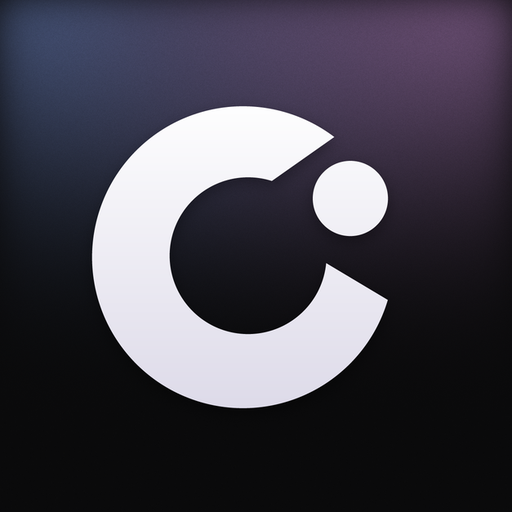
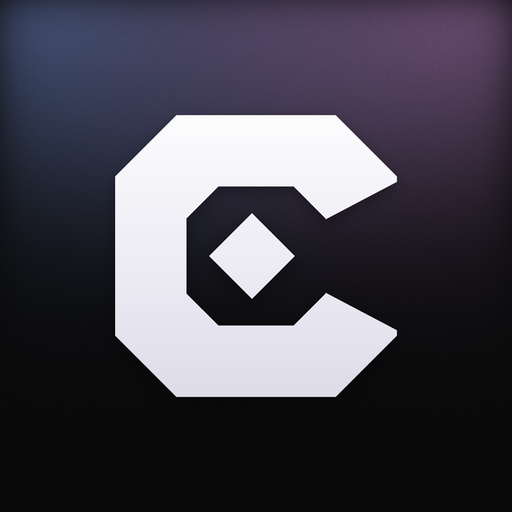
New mark: a faceted C with a diamond control point inside it

diff --git a/src/components/BrandMark.tsx b/src/components/BrandMark.tsx
@@ -4,10 +4,10 @@ import { cn } from './ui';
 /**
  * BrandMark — the Control Point logo slot.
  *
- * The logo is `public/logo.png` (Control Scout's v8 icon family: a round "C"
- * with a control point in its opening, soft white on the near-black tile with
- * the slate-to-mauve wash; drawn by scripts/make-icons.py). If it fails to
- * load, the same mark renders inline as SVG.
+ * The logo is `public/logo.png` (Control Scout's v8 icon family: a faceted,
+ * sharp-cornered "C" with the control point, a diamond, inside it; soft white on
+ * the near-black tile with the slate-to-mauve wash; drawn by scripts/make-icons.py).
+ * If it fails to load, the same mark renders inline as SVG.
  *
  * Includes the mini BETA badge next to the wordmark (intentionally tiny).
  */
@@ -28,9 +28,12 @@ export function BetaBadge({ className }: { className?: string }) {
   );
 }
 
-/** The mark alone (the C and its control point) filling its box, in the icon's soft-white ink. Path from scripts/make-icons.py. */
+/** The mark alone (the faceted C and its diamond point) filling its box, in the icon's soft-white ink.
+ *  Polygons from scripts/make-icons.py (mark_polys), scaled to the 100-unit box: the C is the outer
+ *  octagon with the inner octagon and the right-hand wedge masked out. */
 function MarkSvg() {
-  const ink = `cp-ink-${useId().replace(/:/g, '')}`;
+  const id = useId().replace(/:/g, '');
+  const ink = `cp-ink-${id}`, cut = `cp-cut-${id}`;
   return (
     <svg viewBox="0 0 100 100" className="w-full h-full" aria-hidden="true" focusable="false">
       <defs>
@@ -38,10 +41,15 @@ function MarkSvg() {
           <stop offset="0" stopColor="#ffffff" />
           <stop offset="1" stopColor="#dcd9e8" />
         </linearGradient>
+        <mask id={cut} maskUnits="userSpaceOnUse" x="0" y="0" width="100" height="100">
+          <polygon points="34.45,22.49 65.55,22.49 77.51,34.45 77.51,65.55 65.55,77.51 34.45,77.51 22.49,65.55 22.49,34.45" fill="#fff" />
+          <polygon points="42.66,36.44 57.34,36.44 63.56,42.66 63.56,57.34 57.34,63.56 42.66,63.56 36.44,57.34 36.44,42.66" fill="#000" />
+          <polygon points="50,50 100,23.68 100,76.32" fill="#000" />
+        </mask>
       </defs>
       <g fill={`url(#${ink})`}>
-        <path d="M65.29 26.77A29.47 29.47 0 1 0 75.74 58.57L63.69 51.38A15.3 15.3 0 1 1 53.09 35.35Z" />
-        <circle cx="68.42" cy="38.76" r="7.34" />
+        <rect width="100" height="100" mask={`url(#${cut})`} />
+        <polygon points="49.2,41.63 57.58,50 49.2,58.37 40.83,50" />
       </g>
     </svg>
   );
@@ -68,7 +76,7 @@ function LogoImage({ className, decorative = false }: { className?: string; deco
   }
   return (
     <img
-      src="/logo.png?v=5"
+      src="/logo.png?v=6"
       alt={decorative ? '' : 'Control Point logo'}
       onError={() => setMissing(true)}
       className={cn('object-contain flex-shrink-0', className)}

diff --git a/index.html b/index.html
@@ -5,7 +5,7 @@
     <meta name="viewport" content="width=device-width, initial-scale=1.0" />
     <title>Control Point — AI-powered mission control for your robotics team</title>
     <meta name="description" content="Control Point is AI-powered mission control for your robotics team: roster, attendance, tasks, calendar, budget, and team chat — one fast, focused workspace that keeps your whole season on track." />
-    <link rel="icon" type="image/png" href="/favicon.png?v=6">
+    <link rel="icon" type="image/png" href="/favicon.png?v=7">
     <!-- Link embeds: Discord, iMessage, Twitter/X, etc. -->
     <meta property="og:type" content="website" />
     <meta property="og:site_name" content="Control Point" />
@@ -13,18 +13,18 @@
     <meta property="og:description" content="Roster, attendance, tasks, calendar, budget, and team chat — one fast, focused workspace that keeps your whole season on track." />
     <meta property="og:url" content="https://tryctrlpoint.org/" />
     <link rel="canonical" href="https://tryctrlpoint.org/" />
-    <meta property="og:image" content="https://tryctrlpoint.org/og-image.jpg?v=4" />
+    <meta property="og:image" content="https://tryctrlpoint.org/og-image.jpg?v=5" />
     <meta property="og:image:width" content="1200" />
     <meta property="og:image:height" content="630" />
     <meta property="og:image:alt" content="Control Point — AI-powered mission control for your robotics team" />
     <meta name="twitter:card" content="summary_large_image" />
     <meta name="twitter:title" content="Control Point — AI-powered mission control for your robotics team" />
     <meta name="twitter:description" content="Roster, attendance, tasks, calendar, budget, and team chat — one fast, focused workspace that keeps your whole season on track." />
-    <meta name="twitter:image" content="https://tryctrlpoint.org/og-image.jpg?v=4" />
+    <meta name="twitter:image" content="https://tryctrlpoint.org/og-image.jpg?v=5" />
     <meta name="theme-color" content="#0a0a0b" />
     <!-- PWA: installable from the browser, no app store needed -->
     <link rel="manifest" href="/manifest.webmanifest?v=6" />
-    <link rel="apple-touch-icon" sizes="180x180" href="/apple-touch-icon.png?v=6" />
+    <link rel="apple-touch-icon" sizes="180x180" href="/apple-touch-icon.png?v=7" />
     <meta name="mobile-web-app-capable" content="yes" />
     <meta name="apple-mobile-web-app-capable" content="yes" />
     <meta name="apple-mobile-web-app-status-bar-style" content="black-translucent" />

diff --git a/src/components/__tests__/brandMark.test.tsx b/src/components/__tests__/brandMark.test.tsx
@@ -1,0 +1,36 @@
+// The logo is /logo.png; if it fails to load, BrandLogo draws the same mark inline. Both come from
+// scripts/make-icons.py: the faceted C (outer octagon, inner octagon and right-hand wedge masked out)
+// with the diamond control point inside it.
+import { describe, it, expect, afterEach } from 'vitest';
+import { render, screen, fireEvent, cleanup } from '@testing-library/react';
+import { BrandLogo } from '../BrandMark';
+
+afterEach(cleanup);
+
+describe('BrandLogo', () => {
+  it('serves the current logo image', () => {
+    render(<BrandLogo />);
+    expect(screen.getByRole('img', { name: 'Control Point logo' }).getAttribute('src')).toBe('/logo.png?v=6');
+  });
+
+  it('falls back to the faceted C with a diamond point when the image fails', () => {
+    render(<BrandLogo />);
+    fireEvent.error(screen.getByRole('img', { name: 'Control Point logo' }));
+    const box = screen.getByRole('img', { name: 'Control Point logo' });
+    const svg = box.querySelector('svg')!;
+    const mask = svg.querySelector('mask')!;
+    expect(mask.querySelectorAll('polygon')).toHaveLength(3); // outer octagon, inner octagon, mouth
+    expect(mask.querySelector('polygon')!.getAttribute('points')!.trim().split(/\s+/)).toHaveLength(8);
+    // The diamond sits inside the C's bowl (the inner octagon spans 36.44..63.56).
+    const diamond = svg.querySelector(':scope > g > polygon')!.getAttribute('points')!.split(/\s+/).map((p) => p.split(',').map(Number));
+    expect(diamond).toHaveLength(4);
+    for (const [x, y] of diamond) {
+      expect(x).toBeGreaterThan(36.44);
+      expect(x).toBeLessThan(63.56);
+      expect(y).toBeGreaterThan(36.44);
+      expect(y).toBeLessThan(63.56);
+    }
+    // No round shapes left from the old mark.
+    expect(svg.querySelector('circle, path')).toBeNull();
+  });
+});

diff --git a/server/predict/how-it-works.html b/server/predict/how-it-works.html
@@ -7,7 +7,7 @@
 <meta name="description" content="How Control Point Predict rates FTC robots, predicts matches, simulates whole events and estimates advancement odds, with the real accuracy numbers.">
 <meta property="og:title" content="How Control Point Predict Works">
 <meta property="og:description" content="Robot ratings, match odds, event simulation and how accurate it all is, explained with real FTC data.">
-<meta property="og:image" content="https://tryctrlpoint.org/og-image.jpg?v=4">
+<meta property="og:image" content="https://tryctrlpoint.org/og-image.jpg?v=5">
 <meta property="og:image:width" content="1200">
 <meta property="og:image:height" content="630">
 <meta property="og:url" content="https://tryctrlpoint.org/predict/how-it-works">
@@ -16,11 +16,11 @@
 <meta name="twitter:card" content="summary_large_image">
 <meta name="twitter:title" content="How Control Point Predict Works">
 <meta name="twitter:description" content="Robot ratings, match odds, event simulation and how accurate it all is, explained with real FTC data.">
-<meta name="twitter:image" content="https://tryctrlpoint.org/og-image.jpg?v=4">
+<meta name="twitter:image" content="https://tryctrlpoint.org/og-image.jpg?v=5">
 <meta property="og:type" content="article">
 <meta name="theme-color" content="#0f1116">
-<link rel="icon" type="image/png" href="/favicon.png?v=6">
-<link rel="apple-touch-icon" sizes="180x180" href="/apple-touch-icon.png?v=6">
+<link rel="icon" type="image/png" href="/favicon.png?v=7">
+<link rel="apple-touch-icon" sizes="180x180" href="/apple-touch-icon.png?v=7">
 <link rel="manifest" href="/manifest.webmanifest?v=6">
 <link rel="preconnect" href="https://fonts.googleapis.com">
 <link rel="preconnect" href="https://fonts.gstatic.com" crossorigin>

diff --git a/src/modern/ModernShell.tsx b/src/modern/ModernShell.tsx
@@ -601,7 +601,7 @@ function WorkspaceSwitcher({ collapsed, teams, activeTeam, activeTeamName, onSwi
             collapsed ? 'size-10 justify-center' : 'h-10 flex-1 px-2',
           )}
         >
-          <img src="/logo.png?v=5" alt="" className="size-6 shrink-0 rounded-md" />
+          <img src="/logo.png?v=6" alt="" className="size-6 shrink-0 rounded-md" />
           {!collapsed && (
             <>
               <span className="min-w-0 flex-1 truncate text-sm font-semibold text-text-base">{activeTeamName || 'Control Point'}</span>

diff --git a/scripts/make-icons.py b/scripts/make-icons.py
@@ -3,14 +3,13 @@
 Needs Pillow and numpy. The output is deterministic (the grain uses a seeded RNG),
 so a re-run with no code change leaves every file byte-identical.
 
-The icon is a sibling of Control Scout's v8 icon (control-scout scripts/brand-icon.mjs):
+The tile is a sibling of Control Scout's v8 icon (control-scout scripts/brand-icon.mjs):
 the same near-black tile with the same wash of three glows along the top edge, the
-same fine grain, and the same heavy round "C" in soft white with a soft shadow. Only
-the glyph in the C's opening differs: Scout has a compass needle, Control Point has
-a control point, a solid round node.
+same fine grain, and the mark in the same soft white with a soft shadow. The mark is
+Control Point's own: a faceted C, all sharp corners, with the control point (a diamond)
+inside it, so it does not read as Scout's round C with its needle.
 
-Geometry is in units of the tile's width, measured from Scout's mark master
-(brand/favicon-master-white.png, 1254 px) so the two C's match.
+Geometry is in units of 1/1254 of the tile's width (the master's size).
 
 Writes:
   favicon.png            64   full-bleed tile (browser tab)
@@ -40,56 +39,42 @@ GRAIN = 0.07
 MASTER = 1254  # the master's size, as Scout's, so the grain has the same scale
 SEED = 8
 
-# The C (Scout's): an outer circle, an inner circle a little right of it, and a wedge cut
-# out of the right side between two straight edges. Units: fraction of the tile.
+# The mark: a faceted C (an octagon with a stroke cut out, opened on the right by a wedge
+# from the centre) with the control point, a diamond, in the middle. Sharp corners
+# throughout, so it reads apart from Scout's round C. Units: 1/1254 of the tile.
 U = 1 / 1254
-C_OUTER = (595.2 * U, 630.0 * U, 369.6 * U)  # cx, cy, r
-C_INNER = (607.6 * U, 626.2 * U, 191.9 * U)
-CUT_TOP = ((841 * U, 320 * U), -0.704)  # a point on the edge, slope dy/dx
-CUT_BOTTOM = ((825 * U, 660 * U), 0.597)
-# The control point: a solid node in the opening, where Scout's needle sits.
-NODE = (858 * U, 486 * U, 92 * U)  # cx, cy, r
-
-GLYPH = "node"
+CX = CY = 627
+OUTER = (345, 150)  # half-size, corner chamfer
+INNER = (170, 78)
+MOUTH = 330  # the wedge's half-height at the tile's right edge
+POINT = (617, 627, 105)  # diamond centre x, y, half-diagonal
 
 
-def mark_mask(size: int, glyph: str = GLYPH, scale: float = 1.0, ss: int = 4) -> np.ndarray:
+def octagon(h: float, k: float) -> list[tuple[float, float]]:
+    c = CX
+    return [(c - h + k, c - h), (c + h - k, c - h), (c + h, c - h + k), (c + h, c + h - k),
+            (c + h - k, c + h), (c - h + k, c + h), (c - h, c + h - k), (c - h, c - h + k)]
+
+
+def mark_polys() -> list[tuple[list[tuple[float, float]], int]]:
+    """The mark as polygons in tile units (0..1254), painted in order: 255 adds, 0 cuts."""
+    px, py, pr = POINT
+    return [
+        (octagon(*OUTER), 255),
+        (octagon(*INNER), 0),
+        ([(CX, CY), (1254, CY - MOUTH), (1254, CY + MOUTH)], 0),
+        ([(px, py - pr), (px + pr, py), (px, py + pr), (px - pr, py)], 255),
+    ]
+
+
+def mark_mask(size: int, scale: float = 1.0, ss: int = 4) -> np.ndarray:
     """The mark's coverage (0..1) on a size x size tile, drawn at ss x and box-filtered down."""
     S = size * ss
     im = Image.new("L", (S, S), 0)
     d = ImageDraw.Draw(im)
     o = (1 - scale) / 2
-
-    def p(x: float, y: float) -> tuple[float, float]:
-        return ((o + x * scale) * S, (o + y * scale) * S)
-
-    def disc(cx: float, cy: float, r: float, fill: int) -> None:
-        (x0, y0), (x1, y1) = p(cx - r, cy - r), p(cx + r, cy + r)
-        d.ellipse([x0, y0, x1, y1], fill=fill)
-
-    disc(*C_OUTER, 255)
-    disc(*C_INNER, 0)
-    # The opening: everything below the top edge and above the bottom edge, right of where they meet.
-    (tx, ty), ts = CUT_TOP
-    (bx, by), bs = CUT_BOTTOM
-    ax = (by - ty + ts * tx - bs * bx) / (ts - bs)
-    ay = ty + ts * (ax - tx)
-    far = 3.0
-    wedge = [p(ax, ay), p(ax + far, ay + ts * far), p(ax + far, ay + bs * far)]
-    d.polygon(wedge, fill=0)
-    if glyph == "node":
-        disc(*NODE, 255)
-    elif glyph == "target":
-        cx, cy, _ = NODE
-        disc(cx, cy, 104 * U, 255)
-        disc(cx, cy, 66 * U, 0)
-        disc(cx, cy, 34 * U, 255)
-    elif glyph == "centre":
-        disc(C_INNER[0], C_INNER[1], 82 * U, 255)
-    elif glyph == "needle":  # Scout's own glyph, for checking the C against Scout's icon
-        d.polygon([p(737 * U, 465 * U), p(1048 * U, 227 * U), p(880 * U, 612 * U)], fill=255)
-    elif glyph != "none":
-        raise ValueError(glyph)
+    for pts, fill in mark_polys():
+        d.polygon([((o + x * U * scale) * S, (o + y * U * scale) * S) for x, y in pts], fill=fill)
     im = im.resize((size, size), Image.BOX)
     return np.asarray(im, dtype=np.float32) / 255
 
@@ -119,7 +104,7 @@ def over(dst: np.ndarray, rgb: np.ndarray, alpha: np.ndarray) -> np.ndarray:
     return dst * (1 - a) + rgb * a
 
 
-def tile(size: int, glyph: str = GLYPH, scale: float = 1.0) -> Image.Image:
+def tile(size: int, scale: float = 1.0) -> Image.Image:
     """The full icon at `size`, drawn as Scout draws its master."""
     N = size
     yy, xx = np.mgrid[0:N, 0:N].astype(np.float32) + 0.5
@@ -147,7 +132,7 @@ def tile(size: int, glyph: str = GLYPH, scale: float = 1.0) -> Image.Image:
     img = img * (1 - GRAIN) + ov * GRAIN
     # The mark: soft white (white at 18% to a faint lavender grey at 82%), with a soft
     # shadow (black 35%, blur 3% of the size, 1% down).
-    m = mark_mask(N, glyph, scale)
+    m = mark_mask(N, scale)
     shadow = blur(m, N * 0.03 / 2)
     dy = int(round(N * 0.01))
     shadow = np.vstack([np.zeros((dy, N), np.float32), shadow[: N - dy]]) * 0.35

diff --git a/public/BRAND.md b/public/BRAND.md
@@ -1,9 +1,9 @@
 # Brand logo
 
-The logo is a heavy round "C" with a control point (a solid round node) in its
-opening, in soft white on a near-black tile with a wash of colour across the
-top. It is a sibling of Control Scout's v8 icon: the same tile, wash, grain, C
-and ink, with a node where Scout has its compass needle.
+The logo is a faceted "C" (an octagon with sharp, chamfered corners, open on the
+right) with the control point, a diamond, inside it, in soft white on a near-black
+tile with a wash of colour across the top. It shares Control Scout's v8 tile, wash,
+grain and ink, but the mark is its own: sharp where Scout's C is round.
 
 - Graphite background: `#0a0a0b`
 - Ink: white `#ffffff` at the top to `#dcd9e8` at the bottom, with a soft shadow
